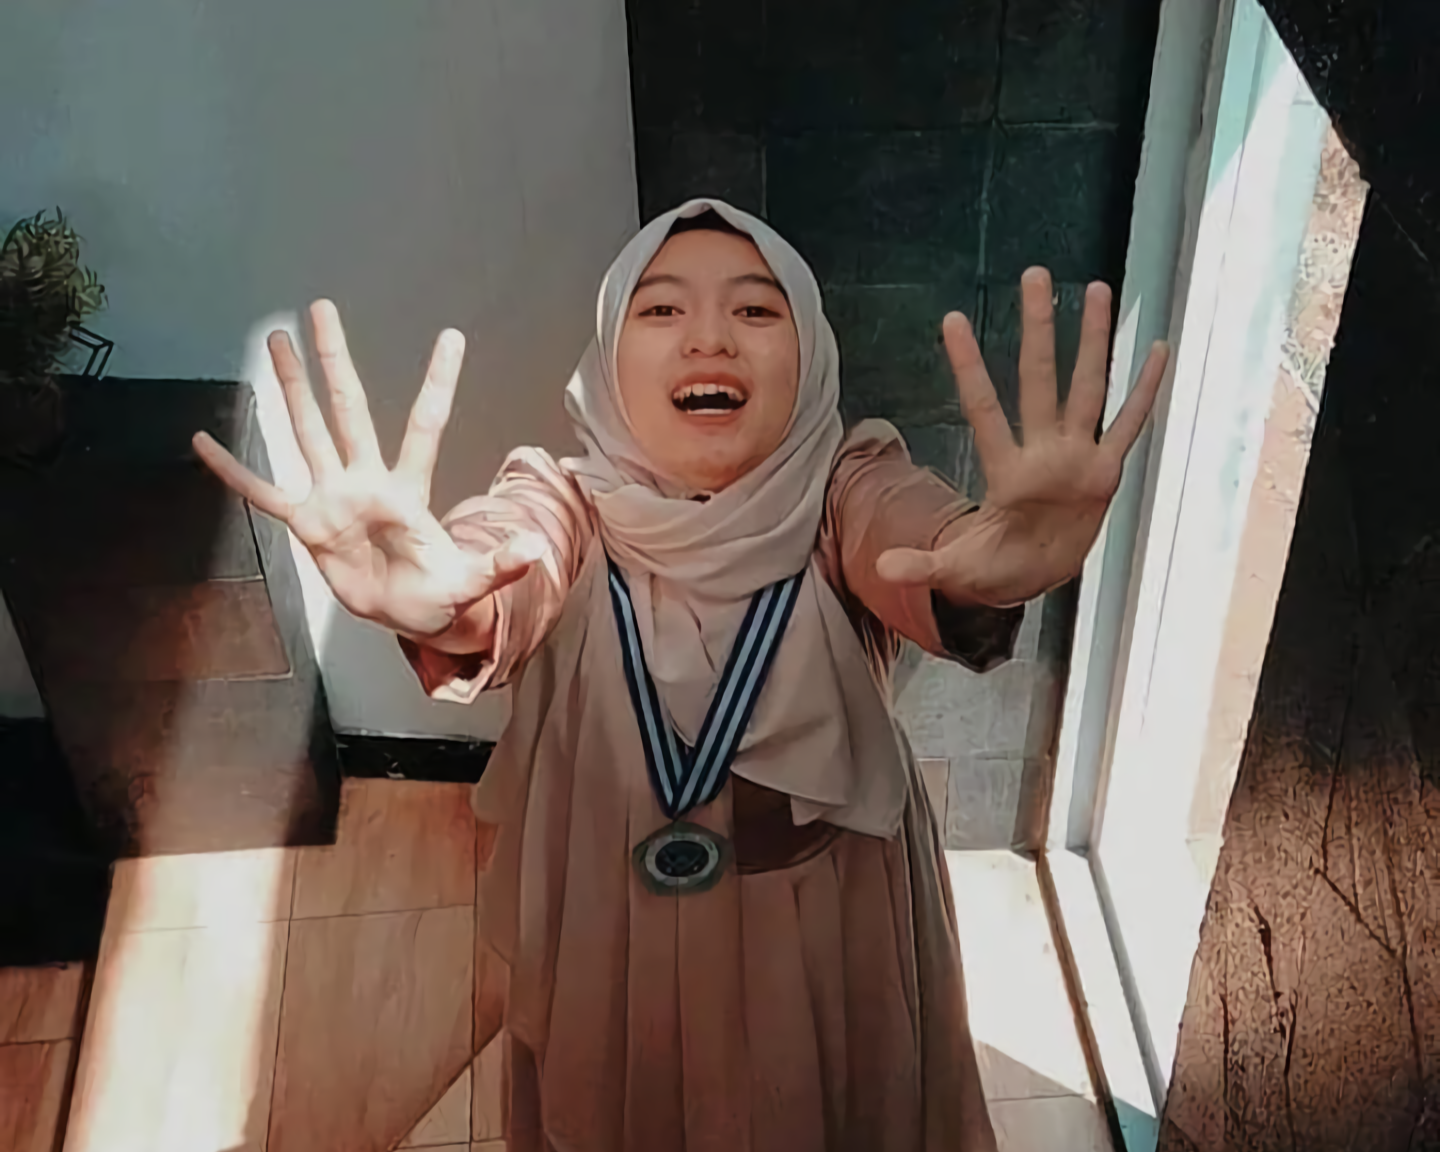
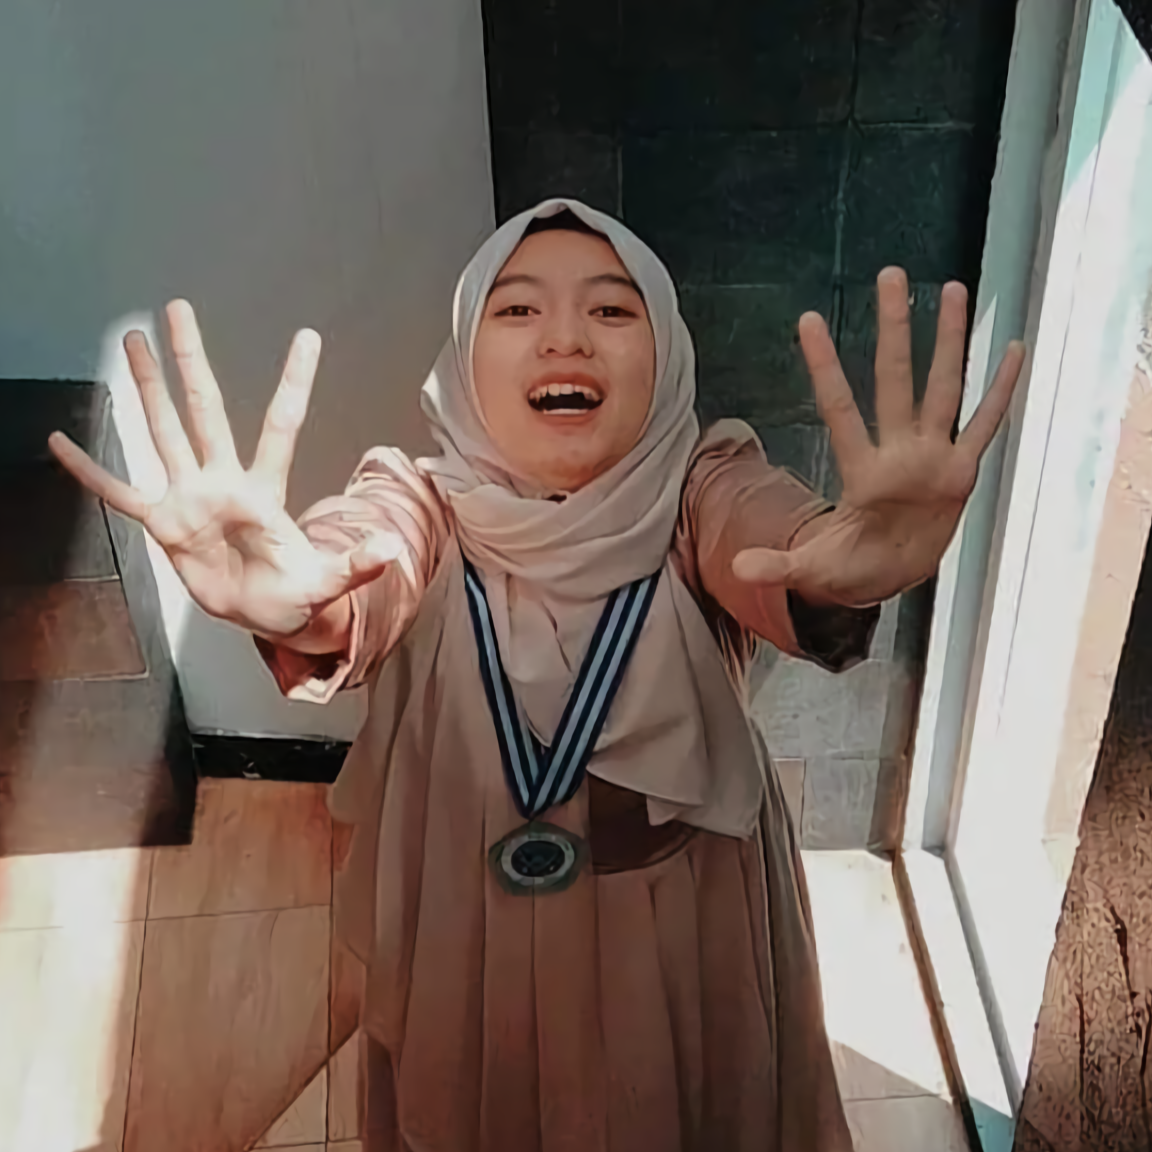
tiara

diff --git a/resources/views/about.blade.php b/resources/views/about.blade.php
@@ -21,17 +21,21 @@
       <div class="row">
         <div class="col">
           <img src="img/Fitri.png" class="rounded-circle" alt="" style="width:100%;">
-          <h5 style="heigth: 20px;">Fitri Farida Solihati</h5>
+          <h5 style="margin:20px;">Fitri Farida Solihati</h5>
+          <p>2103753</p>
         </div>
         <div class="col">
           Column
         </div>
         <div class="col">
           <img src="img/Reisa.jpg" class="rounded-circle" alt="" style="width:100%;">
-          <h5 style="heigth: 20px;">Reisa Aulia Sodikin</h5>
+          <h5 style="margin:20px;">Reisa Aulia Sodikin</h5>
+          <p>2102423</p>
         </div>
         <div class="col">
-          Column
+          <img src="img/Tiara.jpeg" class="rounded-circle" alt="" style="width:100%;">
+          <h5 style="margin:20px;">Tiara Dewi Ibnatun Solihat</h5>
+          <p>2100686</p>
         </div>
       </div>
     </div>
